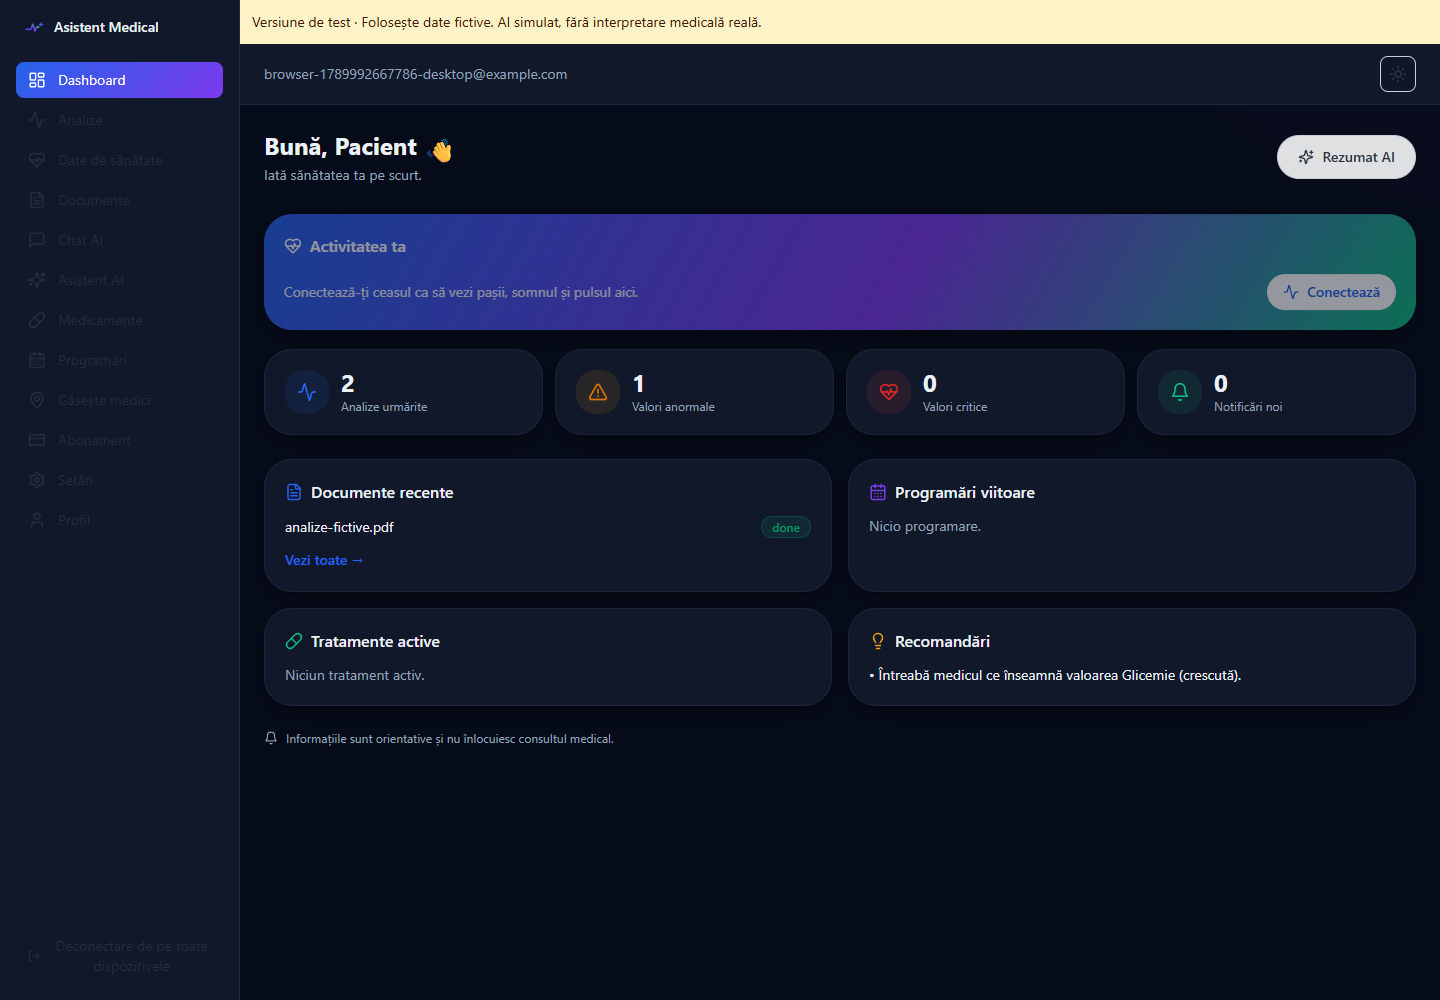
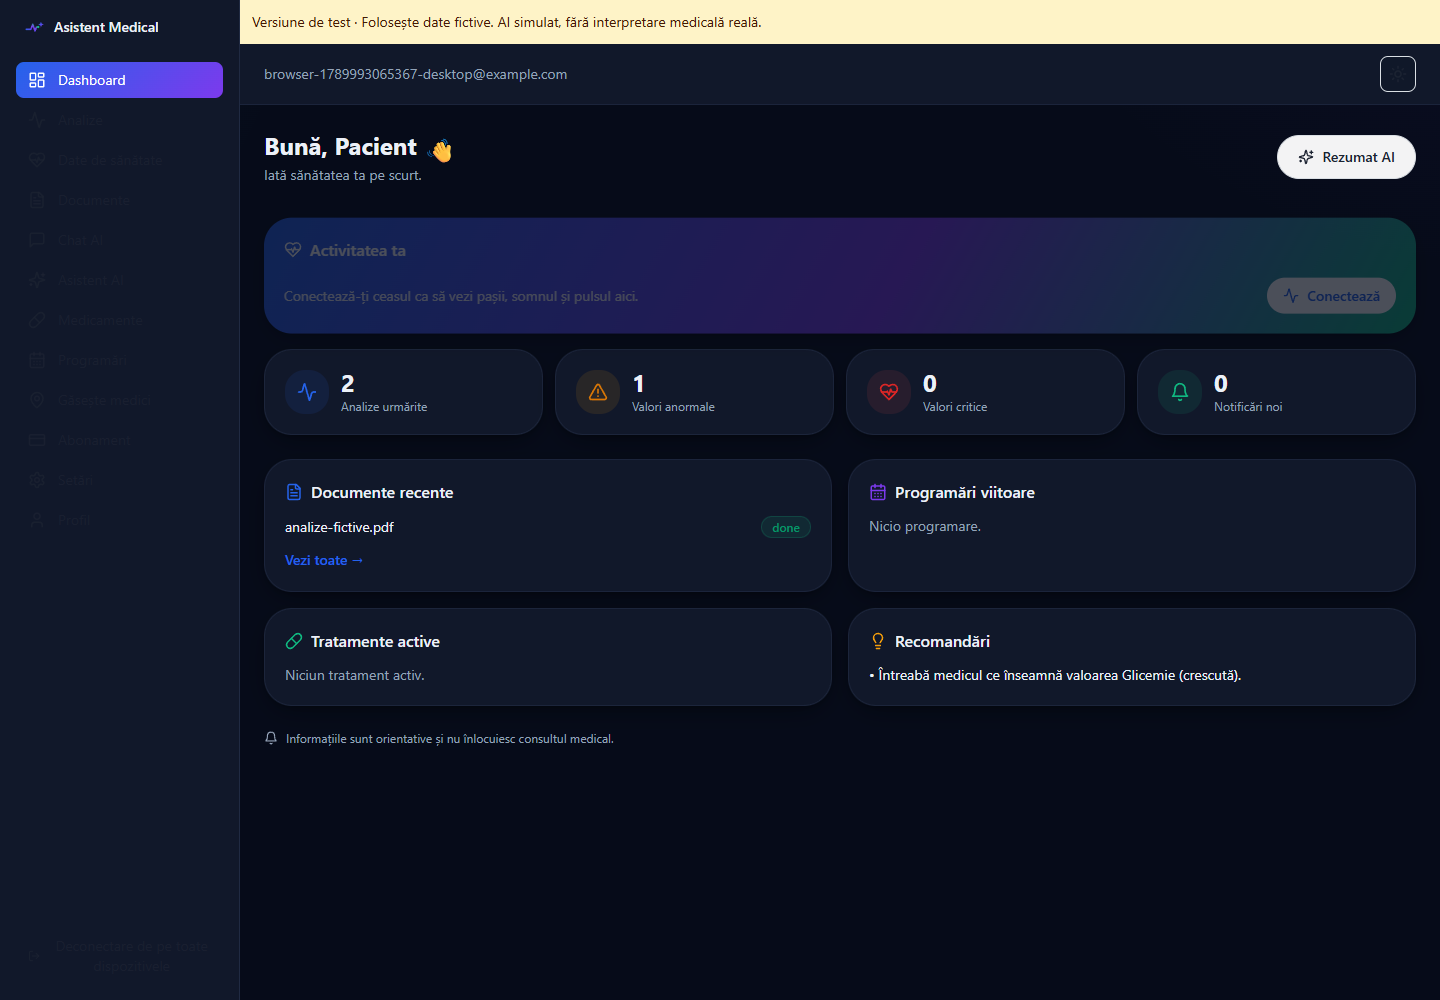
Store native sessions in Keychain and Keystore without plaintext fallback

Changed region(s): [[0.1562, 0.217, 1.0, 0.341], [0.25, 0.062, 0.2812, 0.093]]

diff --git a/frontend/src/lib/api.ts b/frontend/src/lib/api.ts
@@ -1,17 +1,40 @@
+import type { TokenVault } from "./token-vault";
 export const usesCookieSession = process.env.NEXT_PUBLIC_SESSION_TRANSPORT === "cookie";
 const BASE_URL = usesCookieSession ? "" : (process.env.NEXT_PUBLIC_API_URL || "http://localhost:8000");
 const PREFIX = "/api/v1";
+const usesNativeSession = process.env.NEXT_PUBLIC_SESSION_TRANSPORT === "native";
+let nativeVault: TokenVault | null = null;
+let nativeLoading: Promise<TokenVault> | null = null;
+async function loadNativeVault(): Promise<TokenVault> {
+  if (!nativeLoading) {
+    window.localStorage.removeItem(TOKEN_KEY);
+    window.localStorage.removeItem(REFRESH_KEY);
+    nativeLoading = import("./native-token-vault")
+      .then(module => module.createNativeTokenVault())
+      .then(vault => { nativeVault = vault; return vault; })
+      .catch(() => {
+        nativeLoading = null;
+        throw new ApiError(503, "Stocarea securizată a sesiunii nu este disponibilă.");
+      });
+  }
+  return nativeLoading;
+}
+export async function initializeSession(): Promise<void> {
+  if (usesNativeSession) await loadNativeVault();
+  else if (usesCookieSession) await clearTokens();
+}
 
 const TOKEN_KEY = "am_access_token";
 const REFRESH_KEY = "am_refresh_token";
 
 export function getToken(): string | null {
   if (typeof window === "undefined") return null;
-  return usesCookieSession ? null : window.localStorage.getItem(TOKEN_KEY);
+  return usesCookieSession ? null : usesNativeSession ? nativeVault?.access ?? null : window.localStorage.getItem(TOKEN_KEY);
 }
 
-export function setTokens(access: string, refresh: string): void {
+export async function setTokens(access: string, refresh: string): Promise<void> {
   generation++;
+  if (usesNativeSession) { await (await loadNativeVault()).save({access, refresh}); return; }
   if (usesCookieSession) {
     window.localStorage.removeItem(TOKEN_KEY);
     window.localStorage.removeItem(REFRESH_KEY);
@@ -21,10 +44,11 @@ export function setTokens(access: string, refresh: string): void {
   window.localStorage.setItem(REFRESH_KEY, refresh);
 }
 
-export function clearTokens(): void {
+export async function clearTokens(): Promise<void> {
   generation++;
   window.localStorage.removeItem(TOKEN_KEY);
   window.localStorage.removeItem(REFRESH_KEY);
+  if (usesNativeSession) await (await loadNativeVault()).clear();
 }
 
 export class ApiError extends Error {
@@ -40,7 +64,7 @@ let generation = 0;
 let sessionRevision = 0;
 async function refreshSession(): Promise<boolean> {
   if (refreshing) return refreshing;
-  const refresh = window.localStorage.getItem(REFRESH_KEY);
+  const refresh = usesNativeSession ? (await loadNativeVault()).refresh : window.localStorage.getItem(REFRESH_KEY);
   if (!usesCookieSession && !refresh) return false;
   const ticket = generation;
   refreshing = (async () => {
@@ -51,14 +75,17 @@ async function refreshSession(): Promise<boolean> {
     if (ticket !== generation) return false;
     if (!res.ok) {
       if (res.status === 401 || res.status === 403) {
-        clearTokens(); window.dispatchEvent(new Event("session-expired"));
+        await clearTokens(); window.dispatchEvent(new Event("session-expired"));
       }
       return false;
     }
     const tokens = await res.json();
     if (ticket !== generation) return false;
     sessionRevision++;
-    if (!usesCookieSession) {
+    if (usesNativeSession) {
+      await (await loadNativeVault()).save({access: tokens.access_token, refresh: tokens.refresh_token});
+      if (ticket !== generation) return false;
+    } else if (!usesCookieSession) {
       window.localStorage.setItem(TOKEN_KEY, tokens.access_token);
       window.localStorage.setItem(REFRESH_KEY, tokens.refresh_token);
     }
@@ -68,6 +95,7 @@ async function refreshSession(): Promise<boolean> {
 }
 
 async function response(path: string, options: RequestInit = {}): Promise<Response> {
+  if (usesNativeSession) await loadNativeVault();
   const target = usesCookieSession && ["/auth/login", "/auth/logout-all"].includes(path)
     ? path.replace("/auth/", "/auth/browser/") : path;
   const revision = sessionRevision;
@@ -86,7 +114,7 @@ async function response(path: string, options: RequestInit = {}): Promise<Respon
   if (res.status === 401 && (usesCookieSession || attemptedToken) && !credentialPath) {
     if ((usesCookieSession ? sessionRevision !== revision : (getToken() && getToken() !== attemptedToken)) || await refreshSession()) res = await send();
     if (ticket !== generation) throw new ApiError(401, "Sesiunea s-a schimbat.");
-    if (res.status === 401) {clearTokens(); window.dispatchEvent(new Event("session-expired"));}
+    if (res.status === 401) {await clearTokens(); window.dispatchEvent(new Event("session-expired"));}
   }
   if (!res.ok) {
     let message = "Cererea nu a putut fi finalizată.";

diff --git a/frontend/src/lib/auth.tsx b/frontend/src/lib/auth.tsx
@@ -8,7 +8,7 @@ import {
   type ReactNode,
 } from "react";
 import { useRouter } from "next/navigation";
-import { api, clearTokens, getToken, setTokens, usesCookieSession } from "@/lib/api";
+import { api, clearTokens, getToken, setTokens, usesCookieSession, initializeSession } from "@/lib/api";
 import type { TokenPair, User } from "@/lib/types";
 
 interface AuthState {
@@ -29,16 +29,17 @@ export function AuthProvider({ children }: { children: ReactNode }) {
   const router = useRouter();
 
   useEffect(() => {
-    if (usesCookieSession) clearTokens();
-    if (!usesCookieSession && !getToken()) {
-      setLoading(false);
-      return;
-    }
-    api
-      .get<User>("/auth/me")
-      .then(setUser)
-      .catch(() => { /* unauthenticated or temporarily offline */ })
-      .finally(() => setLoading(false));
+    let active = true;
+    (async () => {
+      try {
+        await initializeSession();
+        if (!usesCookieSession && !getToken()) return;
+        const me = await api.get<User>("/auth/me");
+        if (active) setUser(me);
+      } catch { /* login will show a storage or authentication error when retried */ }
+      finally { if (active) setLoading(false); }
+    })();
+    return () => { active = false; };
   }, []);
 
   useEffect(() => {
@@ -58,7 +59,7 @@ export function AuthProvider({ children }: { children: ReactNode }) {
       password,
       mfa_code: mfaCode || null,
     });
-    setTokens(tokens.access_token, tokens.refresh_token);
+    await setTokens(tokens.access_token, tokens.refresh_token);
     const me = await api.get<User>("/auth/me");
     setUser(me);
     router.push("/dashboard");
@@ -80,7 +81,7 @@ export function AuthProvider({ children }: { children: ReactNode }) {
     if (usesCookieSession && failed) {
       try { await api.post("/auth/browser/clear"); } catch { /* server may be offline */ }
     }
-    clearTokens();
+    try { await clearTokens(); } catch { failed = true; }
     setUser(null);
     router.push(failed ? "/login?logout=unconfirmed" : "/login");
   }

diff --git a/frontend/src/lib/token-vault.ts b/frontend/src/lib/token-vault.ts
@@ -1,0 +1,53 @@
+export interface StoredTokens { access: string; refresh: string }
+export interface TokenStorage {
+  read(): Promise<unknown>;
+  write(tokens: StoredTokens): Promise<void>;
+  remove(): Promise<void>;
+}
+
+/** Serialize secure writes and invalidate in-flight results when logout wins. */
+export class TokenVault {
+  private tokens: StoredTokens | null = null;
+  private revision = 0;
+  private queue: Promise<unknown> = Promise.resolve();
+  constructor(private readonly storage: TokenStorage) {}
+
+  private run<T>(operation: () => Promise<T>): Promise<T> {
+    const result = this.queue.then(operation, operation);
+    this.queue = result.catch(() => undefined);
+    return result;
+  }
+
+  async initialize(): Promise<void> {
+    const ticket = this.revision;
+    await this.run(async () => {
+      const value = await this.storage.read();
+      if (value === null) return;
+      if (typeof value !== "object" || !value ||
+          !("access" in value) || typeof value.access !== "string" || !value.access ||
+          !("refresh" in value) || typeof value.refresh !== "string" || !value.refresh) {
+        await this.storage.remove();
+        return;
+      }
+      if (ticket === this.revision) this.tokens = {access:value.access, refresh:value.refresh};
+    });
+  }
+
+  get access(): string | null { return this.tokens?.access ?? null; }
+  get refresh(): string | null { return this.tokens?.refresh ?? null; }
+
+  async save(tokens: StoredTokens): Promise<void> {
+    const ticket = ++this.revision;
+    await this.run(async () => {
+      try { await this.storage.write(tokens); }
+      catch { this.tokens = null; throw new Error("Sesiunea nu a putut fi salvată în siguranță."); }
+      if (ticket === this.revision) this.tokens = {...tokens};
+    });
+  }
+
+  async clear(): Promise<void> {
+    ++this.revision;
+    this.tokens = null;
+    await this.run(() => this.storage.remove());
+  }
+}

diff --git a/frontend/src/lib/native-token-vault.ts b/frontend/src/lib/native-token-vault.ts
@@ -1,0 +1,18 @@
+import { TokenVault } from "./token-vault";
+
+export async function createNativeTokenVault(): Promise<TokenVault> {
+  const { Capacitor } = await import("@capacitor/core");
+  if (!Capacitor.isNativePlatform() || !Capacitor.isPluginAvailable("SecureStorage")) {
+    throw new Error("Stocarea securizată nativă nu este disponibilă. Folosește aplicația instalată.");
+  }
+  // Never invoke the plugin's unencrypted web implementation.
+  const { SecureStorage, KeychainAccess } = await import("@aparajita/capacitor-secure-storage");
+  const key = "ro.asistentmedical.session.v1";
+  const vault = new TokenVault({
+    read: () => SecureStorage.get(key, false, false),
+    write: tokens => SecureStorage.set(key, {...tokens}, false, false, KeychainAccess.whenUnlockedThisDeviceOnly),
+    remove: async () => { await SecureStorage.remove(key, false); },
+  });
+  await vault.initialize();
+  return vault;
+}

diff --git a/docs/LOCAL-TEST.md b/docs/LOCAL-TEST.md
@@ -27,7 +27,7 @@ Cheile generate o singură dată, baza SQLite, originalele criptate, emailurile 
 
 Recuperarea folosește tokenuri aleatoare, stocate doar ca hash, cu scop, expirare și consum atomic. Migrarea `f6b8d0a2c4e6` invalidează implicit vechile linkuri JWT; solicită un link nou. Resetarea revocă sesiunile existente. Fără `SMTP_HOST`, recuperarea în producție întoarce uniform 503. Pentru email real sunt necesare `SMTP_HOST`, `SMTP_PORT`, `SMTP_USER`, `SMTP_PASSWORD`, `SMTP_FROM` și un `FRONTEND_URL` HTTPS corect; vezi și setările backend. Nu pune parole în Git.
 
-AI rulează cu `AI_DEFAULT_PROVIDER=mock`, iar interfața afișează permanent modul de test. OCR real, DOCX, SMTP/S3 reale și notificările externe nu au fost validate în acest increment. Webul local folosește cookie-uri HttpOnly prin aceeași origine. Exportul mobil păstrează temporar tokenurile bearer; stocarea nativă securizată rămâne condiție pentru lansare publică.
+AI rulează cu `AI_DEFAULT_PROVIDER=mock`, iar interfața afișează permanent modul de test. OCR real, DOCX, SMTP/S3 reale și notificările externe nu au fost validate în acest increment. Webul local folosește cookie-uri HttpOnly prin aceeași origine. Exportul mobil utilizează tokenuri bearer păstrate prin Keychain/Android Keystore; verificarea pe dispozitive fizice rămâne necesară.
 
 ## Verificări repetabile
 
@@ -50,6 +50,6 @@ CI verifică backend, TypeScript, sesiuni, browser și exportul mobil. Hookurile
 
 Scriptul local setează `NEXT_PUBLIC_SESSION_TRANSPORT=cookie` și `BACKEND_URL=http://localhost:8012`. Cererile browserului merg la `/api/v1` pe aceeași origine; Next transmite cererile server-side către API. Backendul emite cookie-uri HttpOnly, SameSite=Lax, cu Secure în producție, fără Domain explicit. `FRONTEND_URL` trebuie să fie originea exactă a interfeței (fără cale); cererile de autentificare/reînnoire și modificările autentificate prin cookie sunt respinse dacă Origin lipsește sau diferă. API-ul bearer pentru clienți nativi este păstrat.
 
-Pentru activare pe un mediu web viitor: setează variabila publică înainte de build, `BACKEND_URL` la serviciul API accesibil serverului și `FRONTEND_URL` la originea HTTPS reală. Nu este necesară expunerea adresei interne în browser. Nicio configurație Render nu a fost schimbată aici. Exportul mobil forțează explicit transportul bearer și exclude proxy-ul serverului Next.
+Pentru activare pe un mediu web viitor: setează variabila publică înainte de build, `BACKEND_URL` la serviciul API accesibil serverului și `FRONTEND_URL` la originea HTTPS reală. Nu este necesară expunerea adresei interne în browser. Nicio configurație Render nu a fost schimbată aici. Exportul mobil forțează explicit transportul native și exclude proxy-ul serverului Next.
 
 La migrare, copia veche a tokenurilor din localStorage este eliminată și utilizatorul se autentifică din nou. Dacă serverul nu confirmă logoutul, interfața avertizează explicit că unele sesiuni pot rămâne active. Ștergerea cookie-urilor locale nu este raportată ca revocare pe toate dispozitivele.

diff --git a/docs/LAUNCH-READINESS.md b/docs/LAUNCH-READINESS.md
@@ -7,6 +7,7 @@ Repository: calinmurariu1-prog/asistent-medical-RO. Livrare pe `codex/medical-la
 - Loginul Swagger aplică verificările pentru cont activ, MFA, audit și limitarea încercărilor.
 - Recuperare parolă și confirmare email în română; tokenuri opace, hash în DB, expirare, scop și consum atomic. Resetarea revocă sesiunile.
 - Emailuri private pe disc în dezvoltare, fără tokenuri în loguri/răspunsuri. Recuperare indisponibilă uniform în producție fără SMTP.
+- Stocare nativă Keychain/Keystore, fără fallback necriptat, iCloud oprit și backup Android dezactivat.
 - Sesiuni web HttpOnly prin proxy de aceeași origine, protecție Origin pentru cererile cu cookie și eliminarea tokenurilor web din localStorage.
 - Refresh automat unic pentru cereri simultane, maximum o reluare; logout pe toate dispozitivele și avertizare la revocare neconfirmată.
 - Originale locale criptate, persistente, descărcate autentificat cu verificarea proprietarului; încărcare limitată ca dimensiune.
@@ -17,7 +18,7 @@ Repository: calinmurariu1-prog/asistent-medical-RO. Livrare pe `codex/medical-la
 ## Dovezi locale
 
 - Backend: 154 teste trecute, inclusiv consum concurent, token expirat/reutilizat/scop greșit, autentificare, MFA, sesiuni și acces documente între utilizatori.
-- Ruff trecut; build Next și TypeScript trecute; cinci teste unitare pentru refresh/concurență trecute.
+- Ruff trecut; build Next și TypeScript trecute; zece teste unitare pentru refresh/concurență trecute.
 - Export web Capacitor: 36 pagini construite. Nu au fost testate dispozitive fizice și nu s-au produs APK/IPA semnate.
 - Verificările browser acoperă cont, confirmare, profil, PDF, descărcare identică, analize, dashboard, refresh, resetare și deconectare pe desktop și dimensiuni iPhone/Android. Capturi în `docs/screenshots`.
 - Auditul npm complet (inclusiv dezvoltare): zero vulnerabilități raportate după actualizarea Capacitor 8.5.2 și a dependențelor indirecte. Generarea iconițelor și sincronizarea nativă au trecut local.
@@ -25,4 +26,4 @@ Repository: calinmurariu1-prog/asistent-medical-RO. Livrare pe `codex/medical-la
 
 ## Rămâne înainte de lansare publică
 
-Stocare nativă securizată a sesiunilor, configurare și verificare PostgreSQL/S3/SMTP, evaluare GDPR și retenție, consimțământ AI înainte de provider extern, evaluare medicală a RAG/safety și OCR real. AI rămâne simulat; testele nu demonstrează interpretare medicală reală. Nicio infrastructură Render nu a fost modificată.
+Validare pe dispozitive a stocării native securizate, configurare și verificare PostgreSQL/S3/SMTP, evaluare GDPR și retenție, consimțământ AI înainte de provider extern, evaluare medicală a RAG/safety și OCR real. AI rămâne simulat; testele nu demonstrează interpretare medicală reală. Nicio infrastructură Render nu a fost modificată.

diff --git a/docs/MOBILE.md b/docs/MOBILE.md
@@ -125,3 +125,11 @@ webhook-urile fiecărui furnizor. Vezi `docs/BILLING.md` (în lucru).
 Pachetele native și pluginurile sunt actualizate împreună. Ghiduri oficiale: [Capacitor 8](https://capacitorjs.com/docs/updating/8-0), [8.5](https://capacitorjs.com/docs/updating/8-5). Proiectul iOS se generează din șablonul actual pe macOS. Nu există încă verificare pe dispozitiv fizic sau build iOS în această livrare.
 
 Versiunile indirecte tar, sharp, uuid și minimatch sunt corectate prin overrides; utilitarul de iconițe folosește același CLI Capacitor ca proiectul. CI rulează auditul npm complet, generarea iconițelor și buildul APK pentru a detecta incompatibilități.
+
+## Stocarea nativă a sesiunii
+
+Exportul mobil setează `NEXT_PUBLIC_SESSION_TRANSPORT=native`. Tokenurile sunt păstrate ca o singură pereche în [SecureStorage](https://github.com/aparajita/capacitor-secure-storage), prin iOS Keychain și Android Keystore. Sincronizarea iCloud este dezactivată; pe iOS cheia este accesibilă numai când dispozitivul este deblocat și nu migrează la alt dispozitiv. Backupul Android al aplicației este dezactivat.
+
+Copia veche din localStorage este eliminată, fără transfer automat: autentifică-te din nou după actualizare. Pluginul este apelat numai pe platformă nativă și numai dacă este disponibil. Nu se folosește implementarea web necriptată și nu se revine la localStorage dacă sistemul refuză stocarea. Deschiderea exportului mobil într-un browser obișnuit nu permite autentificarea; folosește versiunea web cu HttpOnly.
+
+Testele automatizate verifică restaurarea, datele incomplete, erorile de scriere/ștergere și concurența salvare–logout. Ele nu înlocuiesc verificarea pe dispozitive: login, închiderea/redeschiderea aplicației, blocare/deblocare, refresh, logout și reinstalare. iOS Keychain poate păstra datele după dezinstalare; revocarea server-side rămâne autoritatea pentru validitatea sesiunii.
